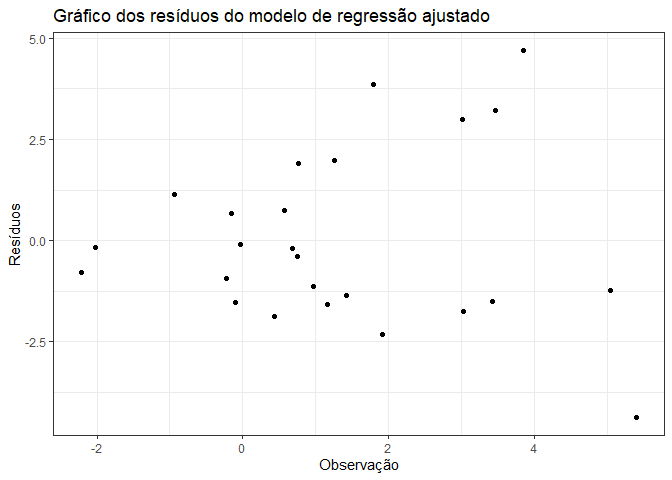
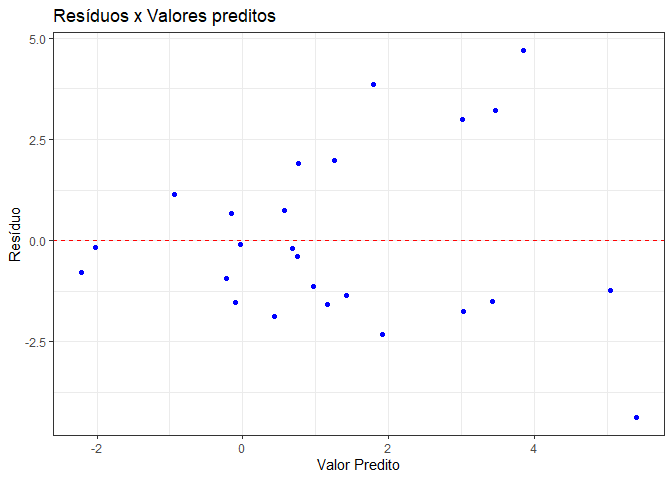
modificacoes finais

diff --git a/README.md b/README.md
@@ -27,11 +27,11 @@ Para exemplificação, considere o seguinte banco de dados simulado com
 cinco observações:
 
     ##          x grupo        y    momento_registro ID
-    ## 1 5.354514     B 6.433922 2024-10-23 21:37:11  1
-    ## 2 6.308610     A 8.873692 2024-10-23 21:37:11  2
-    ## 3 6.739688     B 9.642285 2024-10-23 21:37:11  3
-    ## 4 3.741000     C 7.266051 2024-10-23 21:37:11  4
-    ## 5 3.720005     A 3.661662 2024-10-23 21:37:11  5
+    ## 1 5.354514     B 6.433922 2024-10-23 21:53:37  1
+    ## 2 6.308610     A 8.873692 2024-10-23 21:53:37  2
+    ## 3 6.739688     B 9.642285 2024-10-23 21:53:37  3
+    ## 4 3.741000     C 7.266051 2024-10-23 21:53:37  4
+    ## 5 3.720005     A 3.661662 2024-10-23 21:53:37  5
 
 onde
 
@@ -56,12 +56,12 @@ Para exemplificar, considere a seguinte requisição
 `/data/add_row?x=5&grupo=A&y=10` (`x = 10`, `grupo = A`, `y = 10`).
 
     ##          x grupo         y    momento_registro ID
-    ## 1 5.354514     B  6.433922 2024-10-23 21:37:11  1
-    ## 2 6.308610     A  8.873692 2024-10-23 21:37:11  2
-    ## 3 6.739688     B  9.642285 2024-10-23 21:37:11  3
-    ## 4 3.741000     C  7.266051 2024-10-23 21:37:11  4
-    ## 5 3.720005     A  3.661662 2024-10-23 21:37:11  5
-    ## 6 5.000000     A 10.000000 2024-10-23 21:37:11  6
+    ## 1 5.354514     B  6.433922 2024-10-23 21:53:37  1
+    ## 2 6.308610     A  8.873692 2024-10-23 21:53:37  2
+    ## 3 6.739688     B  9.642285 2024-10-23 21:53:37  3
+    ## 4 3.741000     C  7.266051 2024-10-23 21:53:37  4
+    ## 5 3.720005     A  3.661662 2024-10-23 21:53:37  5
+    ## 6 5.000000     A 10.000000 2024-10-23 21:53:37  6
 
 Além disso, mais duas rotas foram adicionadas para garantir melhor
 manutenção dos dados, já que estar limitado apenas à inserção de novas
@@ -74,11 +74,11 @@ excluindo uma única observação. Suponha que deseja-se excluir o
 `ID = 1`, então, a requisição é `/data/delete_row?ID=1`.
 
     ##          x grupo         y    momento_registro ID
-    ## 2 6.308610     A  8.873692 2024-10-23 21:37:11  2
-    ## 3 6.739688     B  9.642285 2024-10-23 21:37:11  3
-    ## 4 3.741000     C  7.266051 2024-10-23 21:37:11  4
-    ## 5 3.720005     A  3.661662 2024-10-23 21:37:11  5
-    ## 6 5.000000     A 10.000000 2024-10-23 21:37:11  6
+    ## 2 6.308610     A  8.873692 2024-10-23 21:53:37  2
+    ## 3 6.739688     B  9.642285 2024-10-23 21:53:37  3
+    ## 4 3.741000     C  7.266051 2024-10-23 21:53:37  4
+    ## 5 3.720005     A  3.661662 2024-10-23 21:53:37  5
+    ## 6 5.000000     A 10.000000 2024-10-23 21:53:37  6
 
 Em certos casos, é preferível excluir uma sequência de observações, isso
 pode ser feito por meio da sequência `1:3` (isto é, as observações de 1
@@ -86,18 +86,18 @@ pode ser feito por meio da sequência `1:3` (isto é, as observações de 1
 `/data/delete_row?ID=1%3A4`.
 
     ##          x grupo         y    momento_registro ID
-    ## 4 3.741000     C  7.266051 2024-10-23 21:37:11  4
-    ## 5 3.720005     A  3.661662 2024-10-23 21:37:11  5
-    ## 6 5.000000     A 10.000000 2024-10-23 21:37:11  6
+    ## 4 3.741000     C  7.266051 2024-10-23 21:53:37  4
+    ## 5 3.720005     A  3.661662 2024-10-23 21:53:37  5
+    ## 6 5.000000     A 10.000000 2024-10-23 21:53:37  6
 
 Por fim, a terceira maneira é utilizando vetores como `1, 3, 5`, com a
 requisição dada por `/data/delete_row?ID=1%2C3%2C5`.
 
     ##          x grupo         y    momento_registro ID
-    ## 1 5.354514     B  6.433922 2024-10-23 21:37:11  1
-    ## 3 6.739688     B  9.642285 2024-10-23 21:37:11  3
-    ## 5 3.720005     A  3.661662 2024-10-23 21:37:11  5
-    ## 6 5.000000     A 10.000000 2024-10-23 21:37:11  6
+    ## 1 5.354514     B  6.433922 2024-10-23 21:53:37  1
+    ## 3 6.739688     B  9.642285 2024-10-23 21:53:37  3
+    ## 5 3.720005     A  3.661662 2024-10-23 21:53:37  5
+    ## 6 5.000000     A 10.000000 2024-10-23 21:53:37  6
 
 `/data/change_row`: Rota que modifica uma única observação por
 requisição. Para isso, é necessário especificar os argumentos:
@@ -112,12 +112,12 @@ Se o interesse é alterar a observação de `ID = 5` para `x = 5`,
 `/data/change_row?ID=5&x=5&grupo=C&y=15`.
 
     ##          x grupo         y    momento_registro ID
-    ## 1 5.354514     B  6.433922 2024-10-23 21:37:11  1
-    ## 2 6.308610     A  8.873692 2024-10-23 21:37:11  2
-    ## 3 6.739688     B  9.642285 2024-10-23 21:37:11  3
-    ## 4 3.741000     C  7.266051 2024-10-23 21:37:11  4
-    ## 5 5.000000     C 15.000000 2024-10-23 21:37:11  5
-    ## 6 5.000000     A 10.000000 2024-10-23 21:37:11  6
+    ## 1 5.354514     B  6.433922 2024-10-23 21:53:37  1
+    ## 2 6.308610     A  8.873692 2024-10-23 21:53:37  2
+    ## 3 6.739688     B  9.642285 2024-10-23 21:53:37  3
+    ## 4 3.741000     C  7.266051 2024-10-23 21:53:37  4
+    ## 5 5.000000     C 15.000000 2024-10-23 21:53:37  5
+    ## 6 5.000000     A 10.000000 2024-10-23 21:53:37  6
 
 ### Inferência
 
@@ -136,7 +136,8 @@ regressão, e.g. `/fit/param`.
     ## }
 
 `/fit/residuals`: Rota que retorna todos os resíduos da regressão. Nesse
-exemplo é exibido apenas os seis primeiros, e.g. `/fit/residuals`.
+exemplo é exibido apenas os seis primeiros, com requisição dada por
+`/fit/residuals`.
 
     ## [-1.5131,-1.2313,-1.3551,-0.9376,-1.8813,-1.5385]
 
@@ -182,6 +183,26 @@ para separá-los.
 ![](README_files/figure-gfm/unnamed-chunk-16-1.png)<!-- -->
 
 `/plot/residuals`: Rota que realiza a requisição do gráfico de resíduos
-da regressão. A sua chamada é dada por `/plot/residuals`.
+da regressão contra os valores preditos. A sua chamada é dada por
+`/plot/residuals`.
 
 ![](README_files/figure-gfm/unnamed-chunk-17-1.png)<!-- -->
+
+`/plot/residuals_qq`: Rota que realiza a requisição do gráfico QQ-plot.
+Sua chamada é dada por `/plot/residuals_qq`.
+
+``` r
+db_grafico %>% ggplot(aes(sample = residuals(modelo_simulado))) +
+  stat_qq(col="blue", size=2, alpha=0.6) +
+  stat_qq_line(col="red", size=1) +
+  labs(title = "QQ-Plot", x = "Quantis Teóricos", y = "Quantis Amostrais") +
+  theme_bw()
+```
+
+    ## Warning: Using `size` aesthetic for lines was deprecated in ggplot2 3.4.0.
+    ## ℹ Please use `linewidth` instead.
+    ## This warning is displayed once every 8 hours.
+    ## Call `lifecycle::last_lifecycle_warnings()` to see where this warning was
+    ## generated.
+
+![](README_files/figure-gfm/unnamed-chunk-18-1.png)<!-- -->
